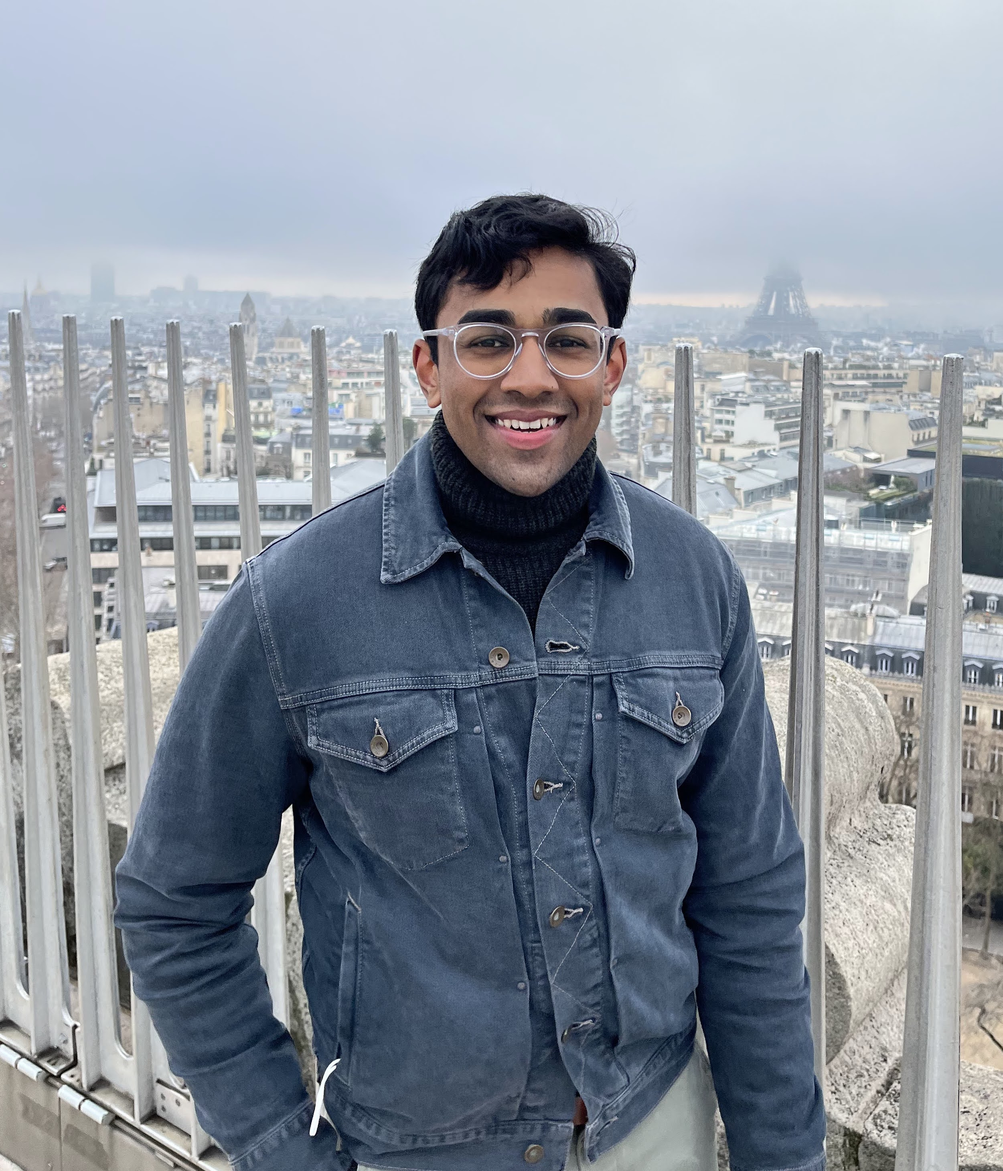
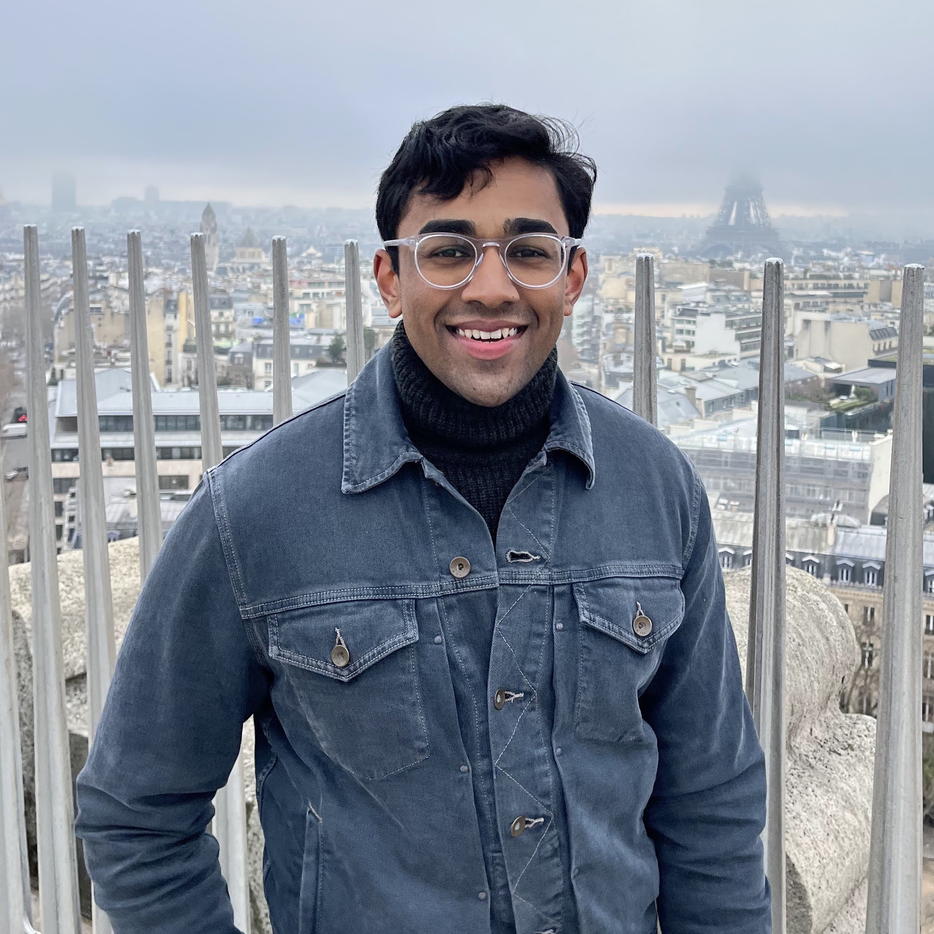
Test font, color changes

diff --git a/_sass/_style.scss b/_sass/_style.scss
@@ -1,19 +1,15 @@
 @import "vars";
 
-@import url('https://fonts.googleapis.com/css2?family=Rubik:wght@300&display=swap');
-// @import url('https://fonts.googleapis.com/css2?family=Noto+Sans&family=Noto+Sans+JP:wght@300;400&family=Source+Sans+Pro:wght@300;400&display=swap');
-// @import url('https://fonts.googleapis.com/css2?family=Noto+Sans&family=Noto+Sans+JP:wght@300;400&family=Open+Sans:wght@300;400&family=Source+Sans+Pro:wght@300;400&display=swap');
-// @import url('https://fonts.googleapis.com/css2?family=Noto+Sans&family=Open+Sans:ital,wght@0,300;0,400;0,700;1,300;1,400;1,700&display=swap');
-// @import url('https://fonts.googleapis.com/css2?family=Noto+Sans&family=Open+Sans:ital,wght@0,300;0,400;0,600;0,700;1,300;1,400;1,600;1,700&display=swap');
-@import url('https://fonts.googleapis.com/css2?family=Noto+Sans&family=Open+Sans:ital,wght@0,300;0,400;0,600;0,700;1,300;1,400;1,600;1,700&family=Rubik:ital,wght@0,300;0,400;0,500;0,600;0,700;1,300;1,400;1,500;1,600;1,700&display=swap');
+@import url('https://fonts.googleapis.com/css2?family=Alegreya&display=swap');
+@import url('https://fonts.googleapis.com/css2?family=Noto+Sans&family=Open+Sans:ital,wght@0,300;0,400;0,600;0,700;1,300;1,400;1,600;1,700&family=Rubik:ital,wght@0,300;0,400;0,500;0,600;0,700;1,300;1,400;1,500;1,600;1,700');
 
 @import "typography";
 @import "tables";
 
 
-// Noto Sans. 
-$body-font: "Noto Sans";
-$nav-font: "Noto Sans";
+// Alegreya 
+$body-font: "Alegreya";
+$nav-font: "Alegreya";
 
 /*
  * Basic
@@ -23,12 +19,12 @@ html {
     height: 100%;
     margin: 0;
     padding: 0;
-    background-color: #fffff8;
-    // color: #fff;
+    background-color: #f8f4ff;
 }
 body {
-    margin: 0;
-    font-family: $body-font;
+    width: 90%;
+    margin: auto;
+    font-family: $body-font, serif;
     height: 100%;
 }
 a {
@@ -51,7 +47,7 @@ hr {
 
 #author-name {
     font-size: 30px;
-    color: #272727;
+    color: #313a3d;
     display: inline-block;
     font-weight: bolder;
 }

diff --git a/_layouts/main.html b/_layouts/main.html
@@ -24,7 +24,7 @@
     <meta name="description" content="{{ desc }}">
     <link rel="preconnect" href="https://fonts.googleapis.com">
     <link rel="preconnect" href="https://fonts.gstatic.com" crossorigin>
-    <link href="https://fonts.googleapis.com/css2?family=DM+Serif+Display&family=PT+Serif&family=Signika+Negative:wght@300;400;600&display=swap" rel="stylesheet">
+    <link href="https://fonts.googleapis.com/css2?family=Alegreya&display=swap" rel="stylesheet">
     <!-- <link href='https://fonts.googleapis.com/css?family=Inconsolata:400,700' rel='stylesheet' type='text/css'> -->
     <link rel="alternate" type="application/rss+xml" title="{{ site.title }} RSS" href="/feed.xml" />
     <link rel="stylesheet" href="{{ site.baseurl }}/css/main.css">

diff --git a/_sass/vars.scss b/_sass/vars.scss
@@ -2,11 +2,8 @@
  * Customization Variables
  */
 
-// $accent: #FF0F00;
-// $accent: #d25203b8;
-// $accent: #d20303b8;
-$accent: #253a35e9;
-$image-size: 85px;
+$accent: #2FBCAB;
+$image-size: 300px;
 
 /*
  * Build Variables, don't touch
